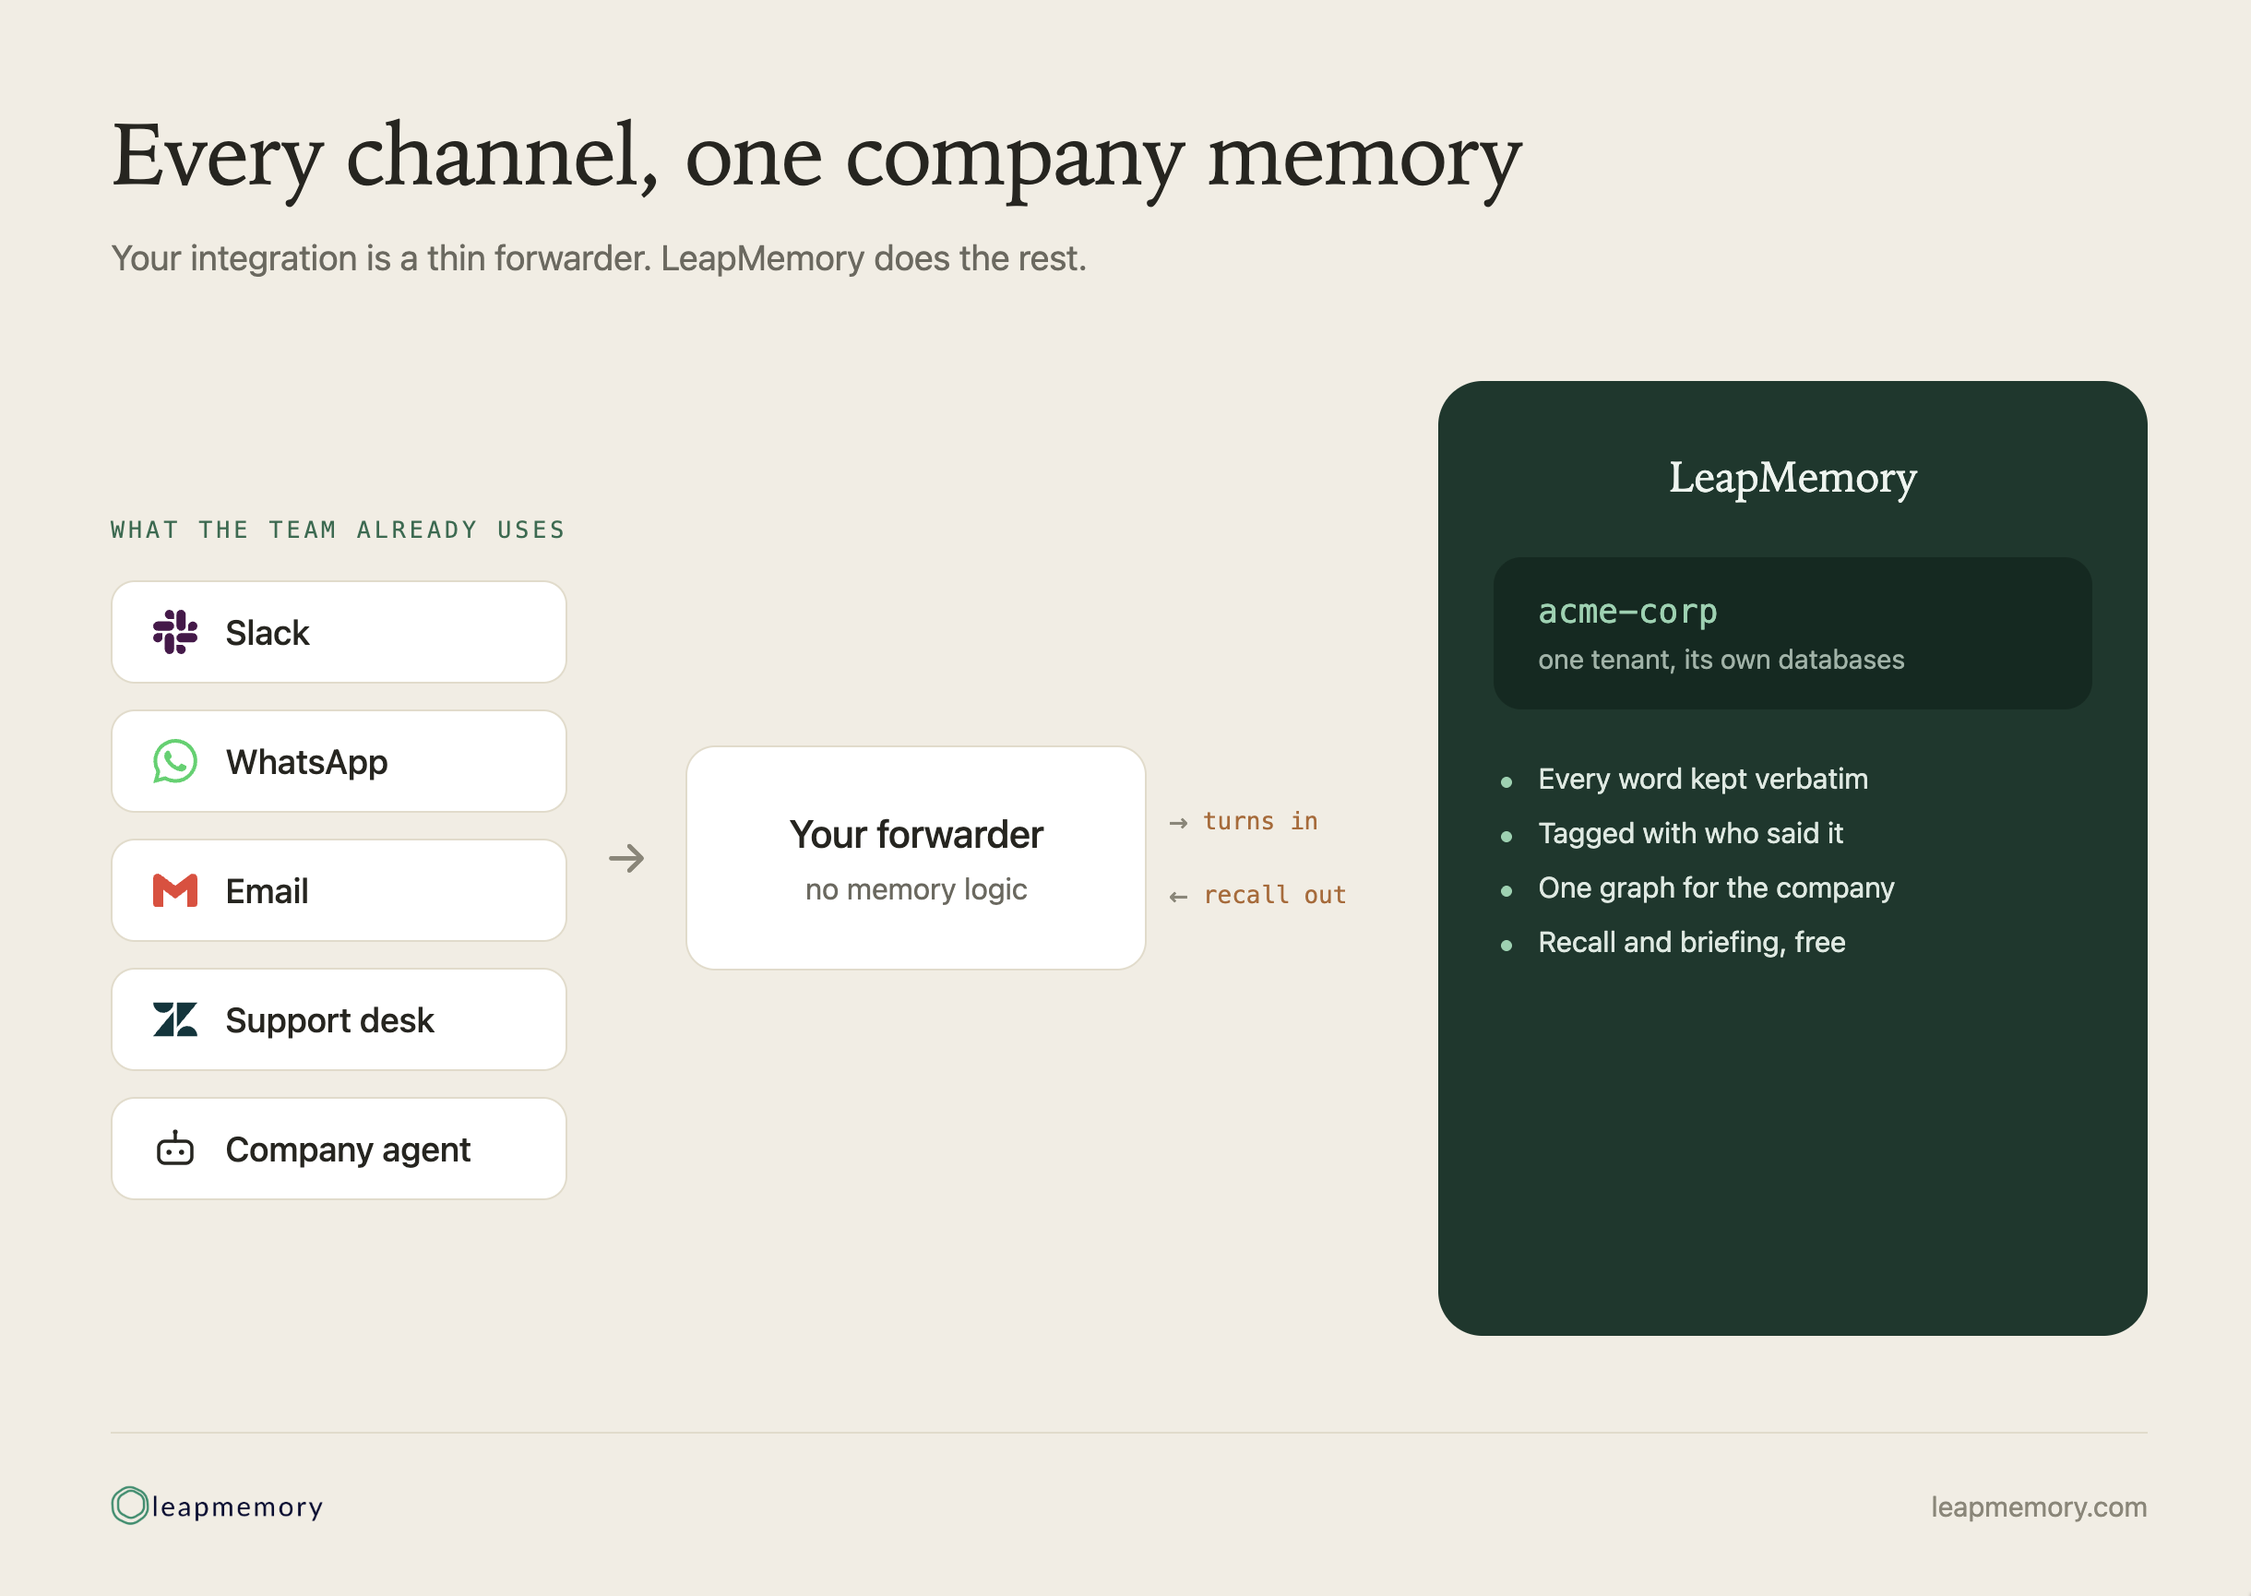
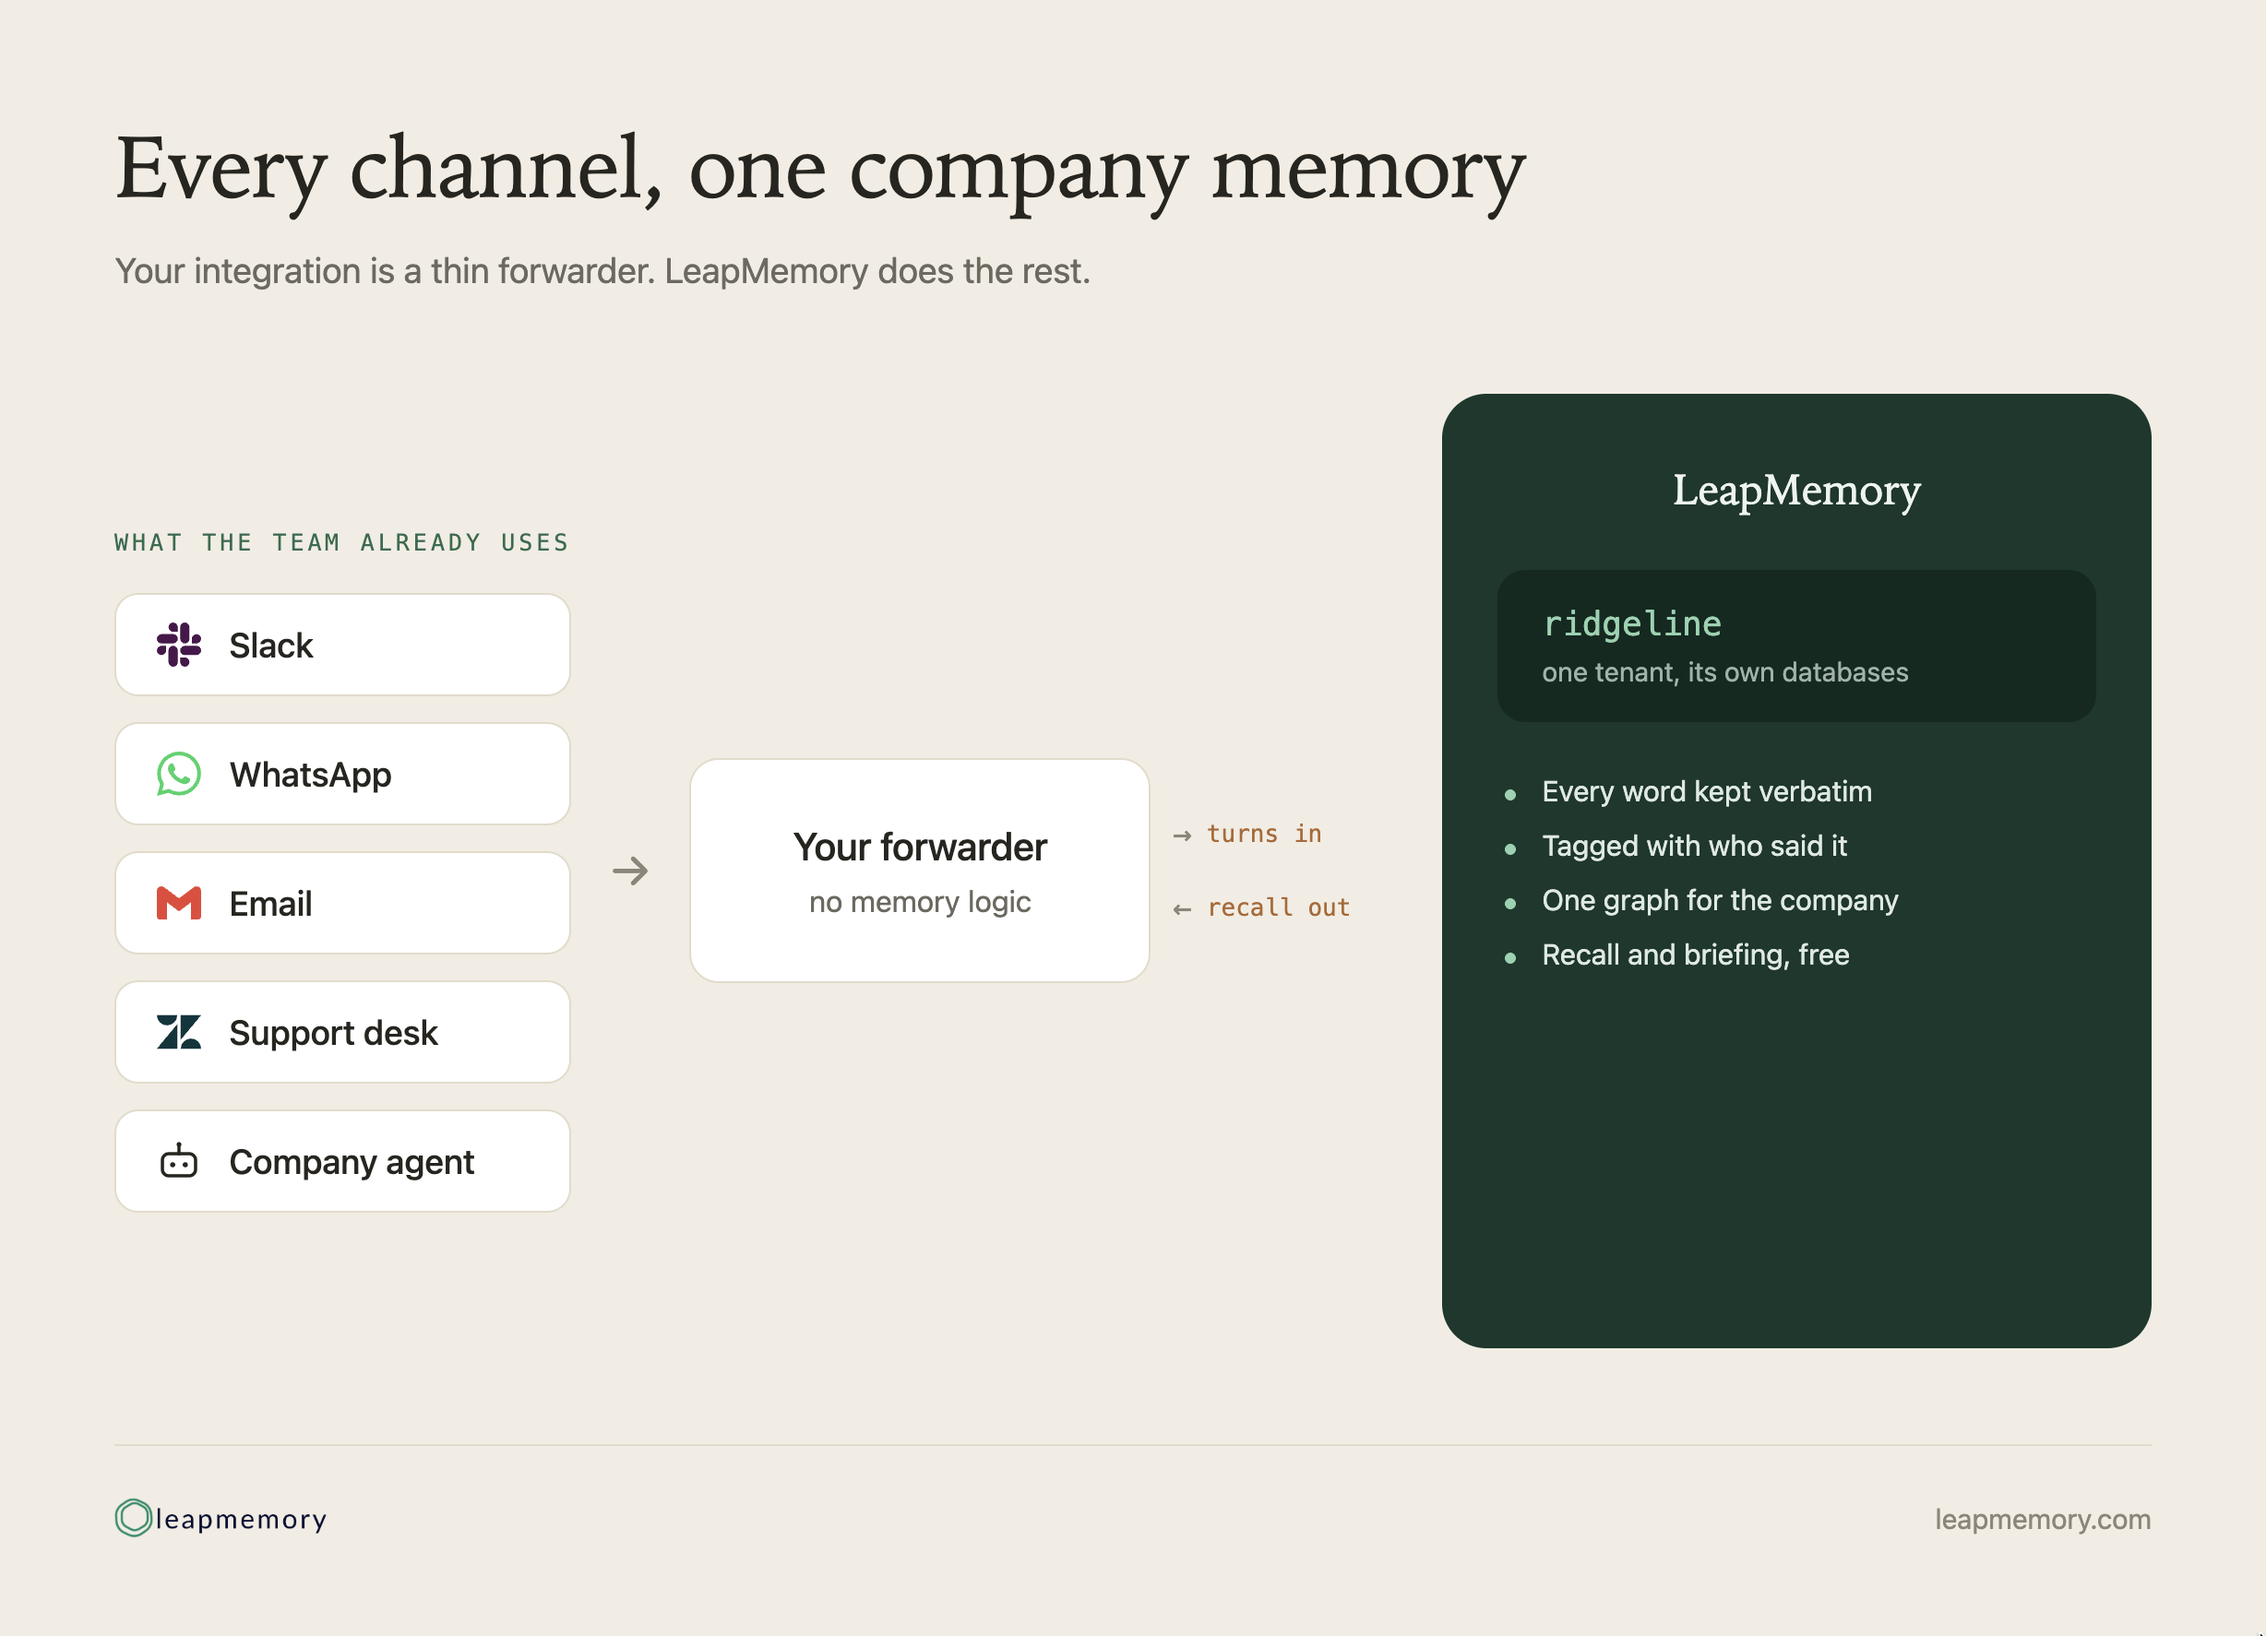
Rename demo naming to Ridgeline throughout, link the organizations page

diff --git a/README.md b/README.md
@@ -92,8 +92,8 @@ the customers, the decisions, and the history.
 Your integration is a thin forwarder. Whatever the team already talks through,
 forward each message as a turn:
 
-    POST /v1/tenants/acme-corp/turns
-    {"role": "user", "speaker_id": "mert", "content": "<the message>"}
+    POST /v1/tenants/ridgeline/turns
+    {"role": "user", "speaker_id": "mike", "content": "<the message>"}
 
 `speaker_id` is the whole trick. It is what makes "who decided this, and why"
 answerable later.
@@ -120,18 +120,24 @@ each assistant loads only the briefings its user is entitled to.
 
 ![One company, several memories](assets/hierarchy.png)
 
-The separation is physical. Each tenant has its own databases, so there is no
+The separation is structural. Each tenant has its own databases, so there is no
 query path from one to the other and no filter to get wrong. A recall key
-scoped to `acme-corp` returns `403 scope_denied` against `acme-leadership`.
+scoped to `ridgeline` returns `403 scope_denied` against `ridgeline-leadership`.
 
-Trade-offs, stated plainly: the graphs do not cross-link, and a turn forwarded
-to two tenants is billed twice.
+Each tenant is complete on its own: its own graph, its own briefing, its own
+history. A turn that belongs in two tenants is forwarded to both; each keeps a
+full copy, and each copy is a billed memory.
 
 ## What this repo does not do
 
 - No self-serve org signup. Today an org runs through a developer account.
 - No visibility scopes inside a single tenant. Use separate tenants.
 - No real channel integrations, by choice. See above.
+
+## Running this for a real team?
+
+The full picture, including the memory hierarchy and day-one briefing:
+[leapmemory.com/organizations](https://leapmemory.com/organizations)
 
 ## Docs
 
